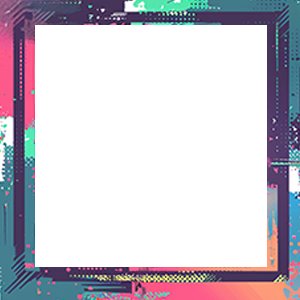
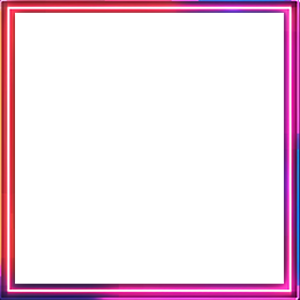
feat: 신문 왼쪽으로 추가, 프레임 엑박 수정
Former-commit-id: b6d43aa926f1514ba24881a6ed08f6805892e29e

diff --git a/frontend/src/components/modal/MyPageModal.tsx b/frontend/src/components/modal/MyPageModal.tsx
@@ -467,7 +467,7 @@ export default function MyPageModal(props: MyPageType) {
                             {littleMenu === 0 ? (
                                 <>
                                     {props.profileFrameInfo.map((frame) => {
-                                        return (
+                                        return frame.profileFrameId !== 1 ? (
                                             <img
                                                 key={frame.profileFrameId}
                                                 className={
@@ -479,6 +479,25 @@ export default function MyPageModal(props: MyPageType) {
                                                 }
                                                 src={`/src/assets/images/profile/frame (${frame.profileFrameId}).png`}
                                                 alt=""
+                                                style={{
+                                                    aspectRatio: 1 / 1,
+                                                }}
+                                                onClick={() => {
+                                                    changeTempFrame(
+                                                        frame.profileFrameId
+                                                    );
+                                                }}
+                                            />
+                                        ) : (
+                                            <div
+                                                key={frame.profileFrameId}
+                                                className={
+                                                    'w-[7vw] h-[7vw] m-[0.8vw] cursor-pointer ' +
+                                                    (tempFrame ===
+                                                    frame.profileFrameId
+                                                        ? 'border-[0.2vw] border-green-400'
+                                                        : '')
+                                                }
                                                 style={{
                                                     aspectRatio: 1 / 1,
                                                 }}
@@ -578,12 +597,19 @@ export default function MyPageModal(props: MyPageType) {
                         alt=""
                         style={{ aspectRatio: 1 / 1 }}
                     />
-                    <img
-                        className="absolute w-full h-full object-cover "
-                        src={`/src/assets/images/profile/frame (${tempFrame}).png`}
-                        alt=""
-                        style={{ aspectRatio: 1 / 1 }}
-                    />
+                    {tempFrame !== 1 ? (
+                        <img
+                            className="absolute w-full h-full object-cover "
+                            src={`/src/assets/images/profile/frame (${tempFrame}).png`}
+                            alt=""
+                            style={{ aspectRatio: 1 / 1 }}
+                        />
+                    ) : (
+                        <div
+                            className="absolute w-full h-full object-cover "
+                            style={{ aspectRatio: 1 / 1 }}
+                        />
+                    )}
                 </div>
                 <div className="flex flex-col w-[80%] h-[25%] ">
                     <div className="flex w-full justify-between items-center mt-[0.8vw]">
@@ -636,12 +662,19 @@ export default function MyPageModal(props: MyPageType) {
                                 changeLittleMenu(0);
                             }}
                         >
-                            <img
-                                className="w-full h-full object-cover "
-                                src={`/src/assets/images/profile/frame (${tempFrame}).png`}
-                                alt=""
-                                style={{ aspectRatio: 1 / 1 }}
-                            />
+                            {tempFrame !== 1 ? (
+                                <img
+                                    className="w-full h-full object-cover "
+                                    src={`/src/assets/images/profile/frame (${tempFrame}).png`}
+                                    alt=""
+                                    style={{ aspectRatio: 1 / 1 }}
+                                />
+                            ) : (
+                                <div
+                                    className="w-full h-full object-cover "
+                                    style={{ aspectRatio: 1 / 1 }}
+                                />
+                            )}
                         </div>
                         <div
                             className="relative w-[30%] bg-white border-[0.1vw] border-black mx-[0.8vw] my-[1.2vw] cursor-pointer"

diff --git a/frontend/src/components/GameComponent.tsx b/frontend/src/components/GameComponent.tsx
@@ -77,13 +77,7 @@ export default function GameComponent(props: GameType) {
     //뉴스 관련
     const [showNews, setShowNews] = useState<boolean>(false);
     const [newsPublishTurn, setNewsPublishTurn] = useState<number>(0);
-    const [newsArticleList, setNewsArticleList] = useState<Article[]>([
-        {
-            articleHeadline: `새로운 시작은 짜릿해!`,
-        },
-        { articleHeadline: `돈 버는 재태크 수단 TOP 10` },
-        { articleHeadline: `게임회사 '어서오-십조', KOSPI 상장` },
-    ]);
+    const [newsArticleList, setNewsArticleList] = useState<Article[]>([]);
 
     ///이벤트 관련
     const [currentSpecialEvent, setCurrentSpecialEvent] = useState<
@@ -131,6 +125,38 @@ export default function GameComponent(props: GameType) {
     //timer setting
     const [breakTime, setBreakTime] = useState<string>('');
     const [timerStartTime, setTimerStartTime] = useState<string>('');
+
+    const articleBoxRef = useRef<HTMLParagraphElement>(null);
+    const [nowArticle, setNowArticle] = useState<string>('');
+    const nowArticleIdx = useRef<number>(0);
+
+    //신문이 왼쪽으로 흘러간다
+    useEffect(() => {
+        articleFlowLeft();
+    }, [newsArticleList, nowArticleIdx.current]);
+
+    /** articleFlowLeft()
+     *  왼쪽으로 흘러가는 aritcle
+     */
+    const articleFlowLeft = () => {
+        if (articleBoxRef.current) {
+            const idx = nowArticleIdx.current;
+            if (idx < newsArticleList.length) {
+                setNowArticle(newsArticleList[idx].articleHeadline);
+                articleBoxRef.current.style.animation =
+                    'article-list 5s 0s 1 linear';
+                articleBoxRef.current.onanimationend = () => {
+                    if (articleBoxRef.current) {
+                        articleBoxRef.current.style.animation = '';
+                        nowArticleIdx.current++;
+                    }
+                };
+            } else {
+                nowArticleIdx.current = 0;
+                return;
+            }
+        }
+    };
 
     const startTimer = (ingameTime: string, breakTime: string) => {
         setBreakTime(breakTime);
@@ -692,12 +718,23 @@ export default function GameComponent(props: GameType) {
                 </>
             ) : (
                 <>
+                    {/* 알림 메시지 */}
                     <div
                         className="absolute w-[40%] h-[10%] left-[30%] top-[40%] bg-black -z-10 rounded text-white opacity-0 flex justify-center items-center whitespace-pre-wrap"
                         ref={AlertRef}
                     >
                         <p className="text-[1.5vw]">{alertMessage}</p>
                     </div>
+                    {/* 기사 표시 화면 */}
+                    <div className="w-[40%] h-[10%] absolute left-[30%] top-[2%] bg-black overflow-hidden flex items-center">
+                        <p
+                            className="absolute w-full text-white text-[2vw] left-[100%] overflow-visible whitespace-nowrap"
+                            ref={articleBoxRef}
+                        >
+                            {nowArticle}
+                        </p>
+                    </div>
+
                     {isGetoutProceeding ? (
                         <WarningModal
                             handleOK={handleGetOut}
@@ -855,10 +892,14 @@ export default function GameComponent(props: GameType) {
                                         className="absolute h-full cursor-pointer btn-animation p-[0.6vw] object-cover"
                                         src={`/src/assets/images/profile/icon (${profileIcon}).png`}
                                     />
-                                    <img
-                                        className="absolute h-full cursor-pointer btn-animation p-[0.6vw] object-cover"
-                                        src={`/src/assets/images/profile/frame (${profileFrame}).png`}
-                                    />
+                                    {profileFrame !== 1 ? (
+                                        <img
+                                            className="absolute h-full cursor-pointer btn-animation p-[0.6vw] object-cover"
+                                            src={`/src/assets/images/profile/frame (${profileFrame}).png`}
+                                        />
+                                    ) : (
+                                        <div className="absolute h-full cursor-pointer btn-animation p-[0.6vw] object-cover" />
+                                    )}
                                 </div>
 
                                 <div className="relative w-[65%] flex flex-col items-center justify-center ps-[1%]">

diff --git a/frontend/src/assets/css/animation.css b/frontend/src/assets/css/animation.css
@@ -31,3 +31,12 @@
         z-index: -10;
     }
 }
+
+@keyframes article-list {
+    0% {
+        left: 100%;
+    }
+    100% {
+        left: -150%;
+    }
+}
